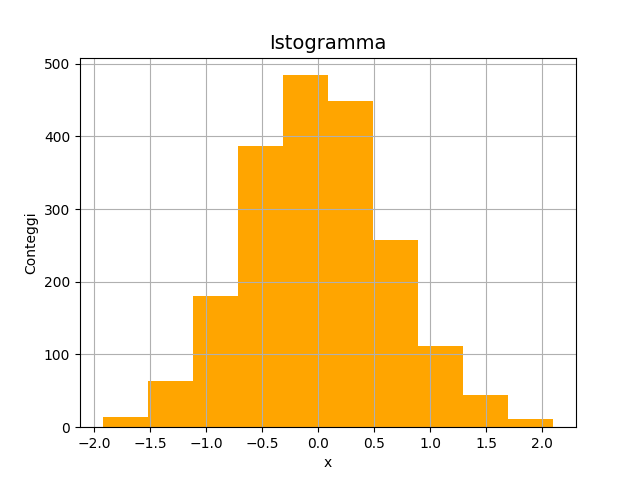
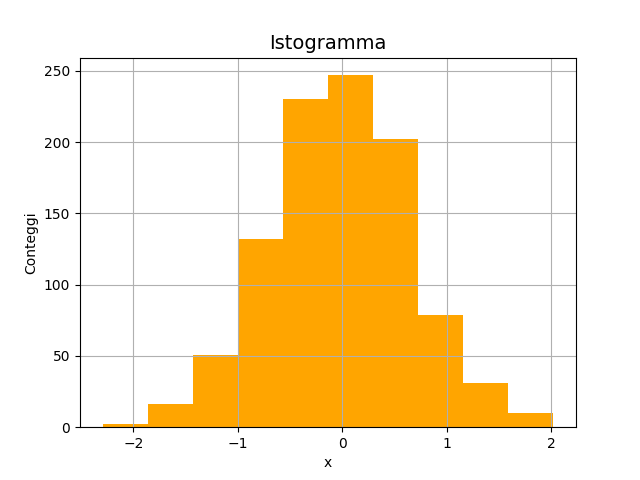
Completati alcuni temi d'esame

diff --git a/Temi d'esame/Esame 5 febbraio 2024/febbraio24.py b/Temi d'esame/Esame 5 febbraio 2024/febbraio24.py
@@ -1,0 +1,109 @@
+'''
+python3 febbraio24.py
+'''
+
+import numpy as np
+import matplotlib.pyplot as plt
+from iminuit import Minuit
+from iminuit.cost import LeastSquares
+from lib import parabola, rand_TCL_par_gauss, rand_range, esegui_fit, sturges
+
+
+def main () :
+
+    # parametri
+    a, b, c = 3, 2, 1
+    diz_par = {
+        "a": 3,
+        "b": 2,
+        "c": 1
+    }
+
+    # Intervallo e numero di punti
+    x_min = 0
+    x_max = 10
+    N_punti = 10
+    
+    # creazione array 
+    x = np.zeros (N_punti)
+    epsilon = np.zeros (N_punti)
+    y = np.zeros (N_punti)
+
+    for i in range (N_punti) :
+        x[i] = rand_range(x_min, x_max)
+        epsilon[i] = rand_TCL_par_gauss (0, 10, 10)
+        y[i] = parabola (x[i], a, b, c) + epsilon[i]
+
+    sigma = np.full (1, 10)
+
+    diz_result = esegui_fit (x, y, sigma, diz_par, parabola)
+
+    print ("\nEsito del Fit: ", diz_result["Validità"])
+    print ("\nNumero di gradi di libertà: ", diz_result["Qsquared"])
+    print ("\nValore del Q-quadro: ", diz_result["Ndof"], "\n")
+
+    print("Matrice di covarianza:\n", diz_result["MatriceCovarianza"])
+
+    for param, value, errore in zip (diz_result["Param"], diz_result["Value"], diz_result["Errori"]) : 
+        print (f'{param} = {value:.6f} +/- {errore:.6f}\n')
+
+    # Calcola la parabola del fit
+    x_fit = np.linspace (min(x), max(x), 500)
+    y_fit = parabola (x_fit, *diz_result["Value"])
+
+    # grafico
+    fig, ax = plt.subplots ()
+    ax.set_title ('Parabola con errori e fit', size = 14)
+    ax.set_xlabel ('x')
+    ax.set_ylabel ('y')
+    ax.errorbar (x, y, xerr = 0.0, yerr = 10, linestyle = 'None', marker = 'o') 
+    ax.plot (x_fit, y_fit, color = 'red', label = 'Fit')
+    ax.grid ()
+
+    plt.savefig ("esame febbraio24 fit.png")
+
+    N_toy = 1000
+    lista_Q2 = []
+    for _ in range (N_toy) :
+        for i in range (N_punti) :
+            x[i] = rand_range(x_min, x_max)
+            epsilon[i] = rand_TCL_par_gauss (0, 10, 10)
+            y[i] = parabola (x[i], a, b, c) + epsilon[i]
+
+        diz_result_Q2 = esegui_fit (x, y, sigma, diz_par, parabola)
+        lista_Q2.append (diz_result_Q2["Qsquared"])
+    
+
+    # punto 5
+    lista_Q2_epsilon_uniform = []    
+    for _ in range (N_toy) :
+        for i in range (N_punti) :
+            x[i] = rand_range (x_min, x_max)
+            epsilon[i] = rand_range (-10*np.sqrt(3), 10*np.sqrt(3))
+            y[i] = parabola (x[i], a, b, c) + epsilon[i]
+
+        diz_Q2_epsilon_unif = esegui_fit (x, y, sigma, diz_par, parabola)
+        lista_Q2_epsilon_uniform.append (diz_Q2_epsilon_unif["Qsquared"])
+    
+    Nbin = sturges (N_toy)
+
+    bin_edges = np.linspace(min(lista_Q2), max(lista_Q2), Nbin)         # Regola la dimensione dei bin e Nbin = numero di bin
+    fig, ax = plt.subplots (nrows = 1, ncols = 1)
+    ax.hist (lista_Q2, bins=bin_edges, color = 'orange', label='epsilon TCL gaus')  # Spesso conviene usare bins = 'auto' evitando di scrivere la linea di codice con bin_edges, per farlo però bisogna importare numpy
+    ax.hist (lista_Q2_epsilon_uniform, bins = bin_edges, color = 'blue', histtype = 'step', label='epsilon uniformi')
+    ax.set_title ('Istogramma Q2', size = 14)
+    ax.set_xlabel ('x')
+    ax.set_ylabel ('y')
+    ax.grid ()                                          # Se voglio la griglia   
+    ax.legend ()
+
+    plt.savefig ("febbraio24 (distribuzione Q2).png")
+    
+    array_Q2 = np.array (lista_Q2_epsilon_uniform)
+    array_Q2.sort ()
+    print("Soglia oltre la quale rigettare il Q2: ", array_Q2[int (N_toy * 0.9) -1])
+
+    plt.show ()
+
+if __name__ == "__main__" :
+    main ()

diff --git a/Temi d'esame/Esame 10 ottobre 2024/ottobre24.py b/Temi d'esame/Esame 10 ottobre 2024/ottobre24.py
@@ -4,7 +4,7 @@ python3 ottobre24.py
 
 # ----- Librerie -----
 
-from lib import generate_gaus_bm, sturges, media, varianza, dev_std, dev_std_media
+from lib import generate_gaus_bm, sturges, media, varianza_bessel, dev_std, dev_std_media, generate_gaus
 import matplotlib.pyplot as plt
 import numpy as np
 
@@ -15,7 +15,7 @@ def main () :
     N = 1000        # Numero di numeri pseudo-casuali da generare
 
     lista_casuali = []                      # inizializzo lista per numeri casuali
-    for _ in range (N) :                    # riempimento lista
+    for _ in range (N//2) :                    # riempimento lista
         g1, g2 = generate_gaus_bm ()
         lista_casuali.append (g1)
         lista_casuali.append (g2)
@@ -35,7 +35,7 @@ def main () :
     
     # punto 3 esame: Statistiche
     print ("Media della distribuzione: ", media (lista_casuali))
-    print ("Varianza della distribuzione: ", varianza (lista_casuali))
+    print ("Varianza della distribuzione: ", varianza_bessel (lista_casuali))
 
     # punto 4 esame: mostrare che dev_standard non cambia e dev_standard della media si
     n = 1
@@ -53,7 +53,7 @@ def main () :
         sigma_mean_list.append (dev_std_media(lista_casuali_stat))
         n = n + 2
         
-    x_axis = np.linspace (0, len(sigma_list), 500)
+    x_axis = np.linspace (2, len(lista_casuali_stat), 500)
 
     # Creazione di una figura con due subplot affiancati
     fig, axes = plt.subplots(1, 2, figsize=(10, 5))  # 1 riga, 2 colonne
@@ -74,6 +74,29 @@ def main () :
     plt.savefig("Confronto media con sigma_media.png")
 
     # punto 5
+
+    mu = 5.
+    sigma = 2.
+    
+    list_gaus_histo = []
+
+    for _ in range (N//2) :                    # riempimento lista
+        g1, g2 = generate_gaus (mu, sigma)
+        list_gaus_histo.append (g1)
+        list_gaus_histo.append (g2)
+
+    # punto 2 esame: Istogramma
+    Nbin = sturges (N)                                                              # per il numero di bin uso la f. di sturges
+    bin_edges = np.linspace (min(list_gaus_histo), max(list_gaus_histo), Nbin)      # uso min e max
+    
+    fig, ax = plt.subplots (nrows = 1, ncols = 1)
+    ax.hist (list_gaus_histo, bins = bin_edges, color = 'orange')
+    ax.set_title ('Istogramma 2', size = 14)
+    ax.set_xlabel ('x')
+    ax.set_ylabel ('Conteggi')
+    ax.grid ()
+    
+    plt.savefig ('Ottobre 2024 gaus.png')
 
     plt.show()
 

diff --git a/Temi d'esame/Esame 5 febbraio 2024/lib.py b/Temi d'esame/Esame 5 febbraio 2024/lib.py
@@ -1,0 +1,60 @@
+import numpy as np
+import random
+import sys
+from math import ceil
+from iminuit import Minuit
+from iminuit.cost import LeastSquares
+
+def parabola (x, a, b, c) :
+    return a + b*x + c*(x**2)
+
+
+# Funzione sturges per il binnaggio (funziona discretamente bene, ma conviene sempre veerificare)
+def sturges (N_eventi) :
+    return ceil (1 + np.log2 (N_eventi))
+
+
+# Distribuzione uniforme tra x_min e x_max con seed scelto in auto
+def rand_range (x_min, x_max) :
+    return x_min + random.random() * (x_max - x_min)
+
+
+# Funzione che genera numeri pseudocasuali partendo dal teorema centrale del limite usando media, sigma di una gaussiana
+# ed N numero di eventi pseudocasuali
+def rand_TCL_par_gauss (mean, sigma, N) :           # par_gauss = parametri gaussiani
+    y = 0. 
+    xMin = mean - np.sqrt(3 * N) * sigma
+    xMax = mean + np.sqrt(3 * N) * sigma
+    for i in range (N) :
+        y = y + rand_range (xMin, xMax)
+    y /= N 
+    return y 
+
+
+def esegui_fit (x, y, sigma, dizionario_par, funzione_fit) :
+
+    if not (isinstance(dizionario_par, dict)) :
+        print ("Inserisci un dizionario come quarto parametro.\n")
+        sys.exit()
+
+    least_squares = LeastSquares (x, y, sigma, funzione_fit)
+    my_minuit = Minuit (least_squares, **dizionario_par)
+    my_minuit.migrad ()                                 
+    my_minuit.hesse ()                                  
+
+    is_valid = my_minuit.valid
+    Q_squared = my_minuit.fval
+    N_dof = my_minuit.ndof
+    matrice_cov = my_minuit.covariance
+
+    diz_risultati = {
+        "Validità": is_valid, 
+        "Qsquared": Q_squared,
+        "Ndof": N_dof,
+        "Param": my_minuit.parameters,
+        "Value": my_minuit.values,
+        "Errori": my_minuit.errors,
+        "MatriceCovarianza": matrice_cov
+    }
+
+    return diz_risultati

diff --git a/Temi d'esame/Esame 10 ottobre 2024/lib.py b/Temi d'esame/Esame 10 ottobre 2024/lib.py
@@ -12,6 +12,15 @@ def generate_gaus_bm () :
     return g1, g2
 
 
+def generate_gaus (mu, sigma) :
+
+    g1, g2 = generate_gaus_bm ()
+    g1 = g1*sigma + mu
+    g2 = g2*sigma + mu
+
+    return g1, g2
+
+
 def sturges (N_eventi) :
     return ceil (1 + np.log2 (N_eventi))
 
@@ -22,15 +31,15 @@ def media (lista) :
     return mean
 
 # Varianza con lista
-def varianza (lista) :
+def varianza_bessel (lista) :
     somma_quadrata = 0
     for elem in lista :
         somma_quadrata = somma_quadrata + (elem - media (lista))**2
-    return somma_quadrata/(len (lista))
+    return somma_quadrata/(len (lista) - 1)
 
 # Deviaz. standard con lista
 def dev_std (lista) :
-    sigma = (sqrt(varianza (lista)))
+    sigma = (sqrt(varianza_bessel (lista)))
     return sigma
 
 # Deviaz. standard della media con lista

diff --git a/Library/library.py b/Library/library.py
@@ -802,8 +802,6 @@ def dev_std_media (sample) :
 # ---- ---- ---- ---- ---- ---- ---- ---- ---- ---- ---- ---- ----
 
 # LE SEGUENTI DUE FUNZIONI SONO COMMENTATE POICHè NON SONO STATE ANCORA CORRETTE O TESTATE QUINDI ATTENZIONE AD INCLUDERLE NEI PROGRAMMI
-'''
-import numpy as np
 
 # Skewness con array
 def skewness(sample):
@@ -822,7 +820,7 @@ def kurtosis(sample):
     n = len(sample)
     kurt = np.sum((sample - mean)**4) / (n * variance**2) - 3
     return kurt
-'''
+
 
 # ---- ---- ---- ---- ---- ---- ---- ---- ---- ---- ---- ---- ----
 

diff --git a/Temi d'esame/Esame 22 gennaio 2024/gennaio24.py b/Temi d'esame/Esame 22 gennaio 2024/gennaio24.py
@@ -45,7 +45,7 @@ def main () :
     '''
     list_TCL = []
     for _ in range (N) :
-        list_TCL.append (rand_TCL(x_min, x_max))
+        list_TCL.append (rand_TCL (x_min, x_max))
     '''
     
     plt.savefig ('Istogramma gennaio24.png')
